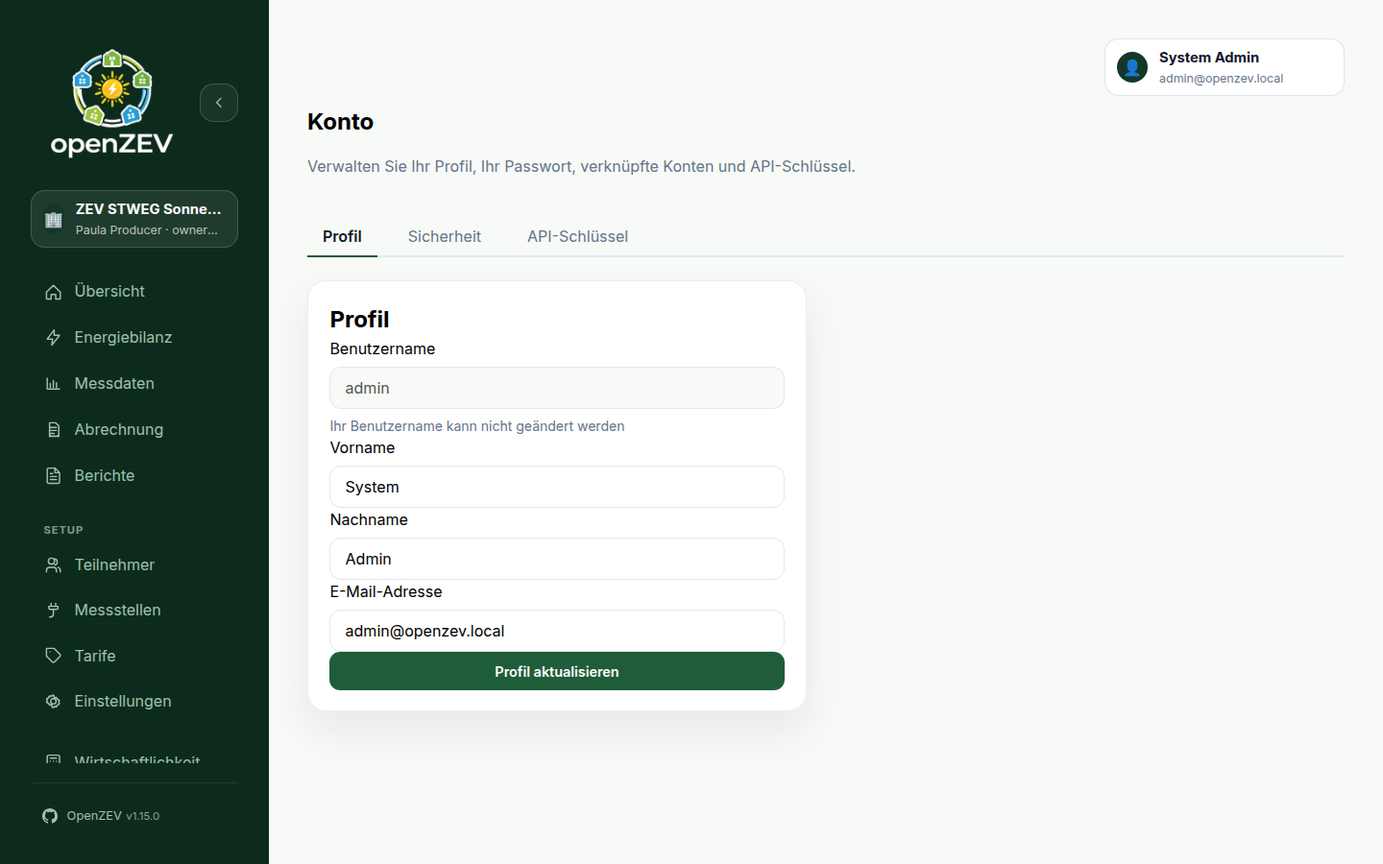
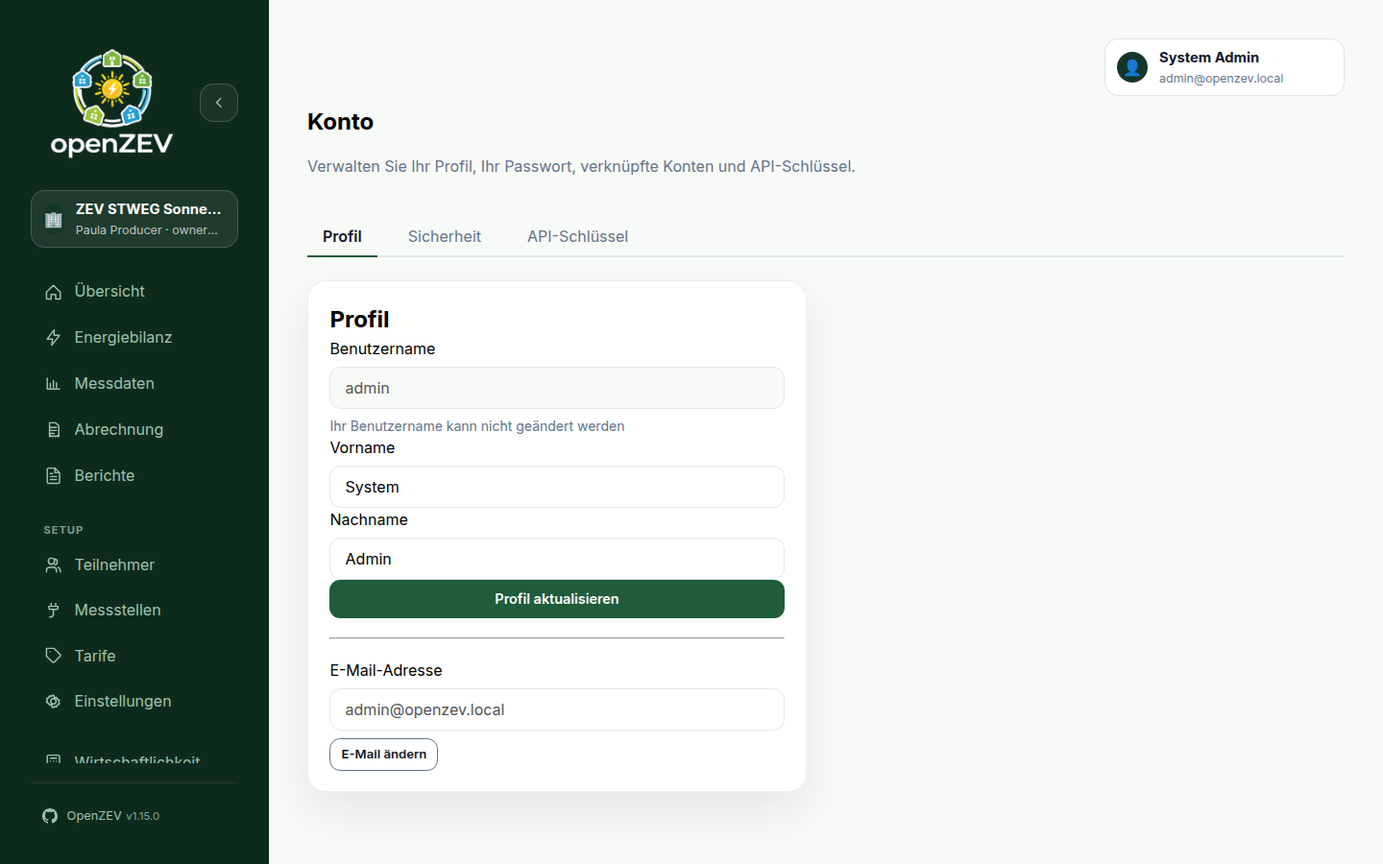
docs(accounts): document session revocation, verified email change and profile lockdown
ADR 0022 (why a version counter rather than a token blacklist), baseline spec
§5.1/5.4-5.6b plus endpoint, throttle and test tables, user guide chapters 11,
12 and 16, and the recaptured account Profile and Security screenshots.

Changed region(s): [[0.2188, 0.6533, 0.5938, 0.84], [0.25, 0.8711, 0.3125, 0.9022]]

diff --git a/docs/specs/2026-03-community-and-access.md b/docs/specs/2026-03-community-and-access.md
@@ -341,7 +341,7 @@ Two consequences for anything added later:
 
 **Two-factor challenge:** if the account has a second factor (a confirmed `TotpDevice` or a registered passkey), the password step returns `200 {"mfa_required": true, "mfa_token": "<signed>", "methods": ["totp", "recovery_code"]}` and sets **no** cookies. `POST /api/v1/auth/token/mfa/` `{mfa_token, code}` then completes the login (TOTP code or one-time recovery code). Magic-link consume and onboarding-link consume return the same challenge shape; the OAuth door honours an IdP `amr` claim instead (`OAuthProvider.require_mfa_claim`, default `False`). `methods` is `["recovery_code"]` for an account whose only factor is a passkey. A passkey (WebAuthn) itself signs in on its own via `POST /auth/passkeys/authenticate/{begin,complete}/` with no password and is never challenged. Accounts without a factor see the pre-2FA behaviour unchanged. Full contract: `2026-09-two-factor-authentication.md` §5.
 
-Helper `accounts.views._make_jwt_for_user(user) -> dict` adds custom claims (also used by `CustomTokenObtainPairSerializer` and `verify_email`/`set_initial_password`; `views_oauth._make_jwt_for_user` and impersonation use the same claims):
+Helper `accounts.jwt_utils.make_jwt_for_user(user, *, impersonated_by=None) -> dict` and `add_custom_claims(token, user)` set the custom claims (used by `CustomTokenObtainPairSerializer`, every session-minting door — verify-email, set-initial-password, magic/onboarding links, OAuth, passkey — and impersonation, so all issue the same claims):
 
 | Claim | Value |
 |---|---|
@@ -349,8 +349,12 @@ Helper `accounts.views._make_jwt_for_user(user) -> dict` adds custom claims (als
 | `email` | `user.email` |
 | `full_name` | `user.get_full_name()` |
 | `must_change_password` | `user.must_change_password` |
+| `sv` | `user.session_version` — the account's session version when the token was issued (§5.6b) |
+| `impersonated_by` | admin id; only on impersonation sessions |
 
-**Token refresh:** `POST /api/v1/auth/token/refresh/` reads `openzev_refresh` cookie; CSRF via `CookieJWTAuthentication` (`SessionAuthentication.enforce_csrf` on unsafe methods) + `CsrfViewMiddleware` kept for admin/Django views.
+**Session version check:** `CookieJWTAuthentication.get_user` refuses an access token whose `sv` (a missing claim reads as `0`) differs from `user.session_version` (`401`, code `session_revoked`) — see §5.6b.
+
+**Token refresh:** `POST /api/v1/auth/token/refresh/` reads `openzev_refresh` cookie; CSRF via `CookieJWTAuthentication` (`SessionAuthentication.enforce_csrf` on unsafe methods) + `CsrfViewMiddleware` kept for admin/Django views. Before rotating, `CookieTokenRefreshView` also requires the refresh token's `sv` to match the account's and the account to be active; otherwise `401` and the auth cookies are cleared.
 
 **Cookie transport:** httpOnly cookies `openzev_access` / `openzev_refresh` + `csrftoken` via `django.middleware.csrf.get_token` (`CsrfViewMiddleware` sets cookie). `CSRF_TRUSTED_ORIGINS` defaults to `CORS_ALLOWED_ORIGINS`.
 
@@ -397,8 +401,8 @@ password. Otherwise returns 400 ("Use the change-password endpoint instead.").
 
 **Flow:**
 1. Validate password via Django password validators.
-2. Set password, clear `must_change_password` flag.
-3. Issue fresh JWT via `accounts.views._make_jwt_for_user(user)` set as httpOnly cookies `openzev_access` / `openzev_refresh` (+ `csrftoken` via `get_token`) so updated claims take effect.
+2. Set password, clear `must_change_password` flag, and revoke the account's other sessions (`revoke_sessions`, §5.6b).
+3. Issue fresh JWT via `accounts.jwt_utils.make_jwt_for_user(user)` set as httpOnly cookies `openzev_access` / `openzev_refresh` (+ `csrftoken` via `get_token`) so updated claims take effect.
 
 ### 5.5 Password change
 
@@ -406,7 +410,7 @@ password. Otherwise returns 400 ("Use the change-password endpoint instead.").
 
 **Payload:** `{ old_password, new_password }`
 
-Validates old password, sets new password, clears `must_change_password`.
+Validates old password, sets new password, clears `must_change_password`, then **signs the account out of every other session** (`revoke_sessions`, §5.6b): whoever knew the old password, or held a stolen session, must not stay signed in. The response carries a fresh token pair under the new session version, so the caller stays signed in (an impersonation session stays an impersonation session). API keys are not revoked — they are separate credentials.
 
 ### 5.6 Profile (me)
 
@@ -421,13 +425,106 @@ Validates old password, sets new password, clears `must_change_password`.
   downloads serve) — plus `zev_count: number`, the number of held
   memberships. `zev_name` is absent when the participant has no membership
   (`zev_count` is then `0`); admins/owners never get either field.
-- PATCH → partial update of own profile fields (name, email, `preferred_zev`).
-  Role change validation: admin cannot change own role; non-admin cannot
-  change role at all. The response is shaped like GET (including
-  `zev_name`/`zev_count` where applicable).
+- GET additionally carries `has_usable_password: boolean` — whether the account
+  can re-authenticate with a password (participants and OAuth-only accounts
+  cannot); the email-change form (§5.6a) is offered only when it is true.
+- PATCH → partial update of **first name, last name and `preferred_zev` only**
+  (`SelfUserSerializer`). A payload that tries to *change* `email`, `username`,
+  `role`, `must_change_password` or `is_active` is rejected `400` naming the
+  field (`"This cannot be changed here."`) and nothing in it is applied; a
+  payload that merely repeats the current value is accepted and ignored, so a
+  client that sends the whole object back keeps working. (Before this, any user
+  could change their own email — the sign-in identifier and magic-link target —
+  without re-authenticating, clear a forced password change, or deactivate
+  themselves.) Admins edit all of these through `PATCH /auth/users/{id}/`. The
+  response is shaped like GET (including `zev_name`/`zev_count` where
+  applicable).
 - `preferred_zev` accepts a ZEV UUID or `null`. Only communities the user
   manages are accepted: owners may only name their own ZEVs, participants/
   guests cannot set a preference at all (`400` otherwise).
+
+### 5.6a Email change
+
+The email is the login identifier and the target of every emailed sign-in link,
+so whoever controls it controls the account. Changing it therefore survives a
+stolen session: the request needs the current password, the new address must
+prove it is reachable before anything changes, and the old address is told.
+
+**Request:** `POST /api/v1/auth/me/email-change/` (IsAuthenticated) `{ new_email, current_password }`,
+throttled per account (`AuthEmailChangeThrottle`, scope `auth_email_change`,
+`5/hour`, `AUTH_EMAIL_CHANGE_THROTTLE_RATE` — it also bounds password guessing by
+a session holder).
+
+| Outcome | Response |
+|---|---|
+| Impersonation session | `403` |
+| Account has no usable password (participants — whose address the community owner maintains on the participant record — and OAuth-only accounts) | `403` `{code: "no_password"}` |
+| Malformed address / same as current / missing or wrong password | `400` (wrong password audited `auth.email_change.failed`, reason `bad_password`) |
+| Address held by another account (case-insensitive) | `202`, **same body as success**, no mail sent — cannot be used to find which addresses have accounts; audited `auth.email_change.failed` (`DENIED`, reason `address_in_use`) |
+| Otherwise | `202`; a confirmation link is emailed to the **new** address; audited `auth.email_change.requested`. A mail failure is `503` and is not recorded as requested. |
+
+**Token:** `accounts/email_change.py` — a `django.core.signing` token (salt
+`accounts.email-change`, 24 h) carrying `{u: user id, n: new address, f: fingerprint}`,
+where the fingerprint is a hash of the account's *current* address and password
+hash. It is stateless yet single-use and mortal: applying it changes the
+address, and any later change of address or password makes the fingerprint
+differ. It also dies if the account is deactivated or someone else took the
+target address meanwhile.
+
+**Confirm:** `POST /api/v1/auth/confirm-email-change/` `{ token }` (AllowAny,
+`AuthVerifyThrottle`, `auth_verify`) — unauthenticated because the link is opened
+from a mailbox, possibly on another device. Every refusal is the same `400 "This
+link is invalid or has expired."`. On success, under a row lock: set the
+address, **revoke all sessions** (§5.6b), email the *previous* address (which
+shows only a masked new address), audit `auth.email_change.confirmed` (actor =
+the account, diff of `email`). No session is minted; the person signs in again
+with the new address.
+
+Frontend: `EmailChangeForm` (Profile tab; "managed by your administrator" hint
+when `has_usable_password` is false) and the public `/confirm-email-change`
+page (`ConfirmEmailChangePage`, spends the single-use link exactly once even
+under React StrictMode). The mails are fixed system messages
+(`accounts/emails.py`), deliberately not `EMAIL_TEMPLATE_DEFAULTS` entries: a
+security notice an admin can reword can be made to stop saying what happened.
+
+### 5.6b Session revocation ("sign out everywhere")
+
+Tokens are stateless JWTs, so nothing server-side lists "sessions". Instead
+`User.session_version` (`PositiveIntegerField`, default `0`, migration `0019`)
+is stamped into every token as `sv`; bumping it makes all earlier tokens fail
+(§5.1). Decision and trade-offs: ADR 0022. API keys are separate credentials and
+are not affected.
+
+`accounts/session_revocation.py`: `revoke_sessions(user)` — an atomic
+`UPDATE … SET session_version = session_version + 1`, then a reload so tokens
+minted straight afterwards carry the new value; `keep_current_session(request,
+response, user)` — hand the caller a fresh pair so revoking *other* sessions
+does not sign them out. `User.save()` deliberately never writes
+`session_version` (a plain save from an instance loaded before a revocation
+would otherwise write the old value back and revive the sessions just signed
+out).
+
+Sessions are revoked, all with `auth.*` audit events where the action is an
+explicit one:
+
+| Trigger | Effect |
+|---|---|
+| Password change / initial password set | other sessions end; caller keeps theirs |
+| Email change confirmed | all sessions end |
+| Admin two-factor reset (`DELETE /users/{id}/mfa/`) | target's sessions end |
+| Admin deactivates an account (`PATCH /users/{id}/` `is_active: false`) | sessions end — so reactivating later does not bring back unexpired tokens |
+| `POST /api/v1/auth/me/sessions/revoke/` (IsAuthenticated; `403` while impersonating) | other sessions end; caller keeps theirs; audited `auth.sessions.revoked` (`scope: others`) |
+| `POST /api/v1/auth/users/{id}/revoke-sessions/` (IsAdmin; `400` for the admin's own account) | all of the target's sessions end; audited `auth.sessions.revoked` (`scope: all`, admin as actor) |
+
+Not revoked by design: logout (it ends *this* browser only), API keys, an
+outstanding MFA challenge token. There is no per-device list: a counter can say
+"everything before now is dead", not "this one device" (ADR 0022).
+
+All four new endpoints are absent from `ACCOUNTS_API_KEY_ALLOWLIST`
+(default-deny): a key must not be able to re-point or sign out its own owner.
+
+Frontend: `SessionsCard` on the Security tab ("Sign out other devices"), and
+"Sign out everywhere" in the admin accounts row menu (not on the admin's own row).
 
 ### 5.7 Impersonation
 
@@ -496,6 +593,8 @@ cookie sessions stay unthrottled:
 | `POST /api/v1/auth/token/refresh/` | `AuthRefreshThrottle` | `auth_refresh` | `60/hour` (`AUTH_REFRESH_THROTTLE_RATE`) |
 | `POST /api/v1/auth/register/` | `AuthRegisterThrottle` | `auth_register` | `10/hour` (`AUTH_REGISTER_THROTTLE_RATE`) |
 | `POST /api/v1/auth/verify-email/` | `AuthVerifyThrottle` | `auth_verify` | `30/hour` (`AUTH_VERIFY_THROTTLE_RATE`) |
+| `POST /api/v1/auth/confirm-email-change/` | `AuthVerifyThrottle` | `auth_verify` | shares the verify budget |
+| `POST /api/v1/auth/me/email-change/` | `AuthEmailChangeThrottle` | `auth_email_change` | `5/hour` (`AUTH_EMAIL_CHANGE_THROTTLE_RATE`), per authenticated account |
 | `POST /api/v1/auth/oauth/login/<provider_slug>/` | `AuthOAuthInitiateThrottle` | `auth_oauth_initiate` | `60/hour` (`AUTH_OAUTH_INITIATE_THROTTLE_RATE`) |
 | `POST /api/v1/auth/oauth/token-exchange/` | `AuthOAuthExchangeThrottle` | `auth_oauth_exchange` | `40/hour` (`AUTH_OAUTH_EXCHANGE_THROTTLE_RATE`) |
 
@@ -944,6 +1043,10 @@ documented in `2026-03-invoice-lifecycle-and-communication.md` §5.6a.
 | GET / PATCH | `/me/` | IsAuthenticated | View/update own profile |
 | POST | `/me/change-password/` | IsAuthenticated | Change password (requires old password) |
 | POST | `/me/set-initial-password/` | IsAuthenticated | Set password for first time (verification flow) |
+| POST | `/me/email-change/` | IsAuthenticated | Ask for an email change; needs the current password; link goes to the new address (§5.6a) |
+| POST | `/confirm-email-change/` | AllowAny (token) | Apply an emailed email-change link (§5.6a) |
+| POST | `/me/sessions/revoke/` | IsAuthenticated | Sign out every other session (§5.6b) |
+| POST | `/users/{id}/revoke-sessions/` | IsAdmin | Sign an account out everywhere (§5.6b) |
 | GET / POST | `/users/` | IsAdmin | List users / Create user |
 | GET / PATCH / DELETE | `/users/{id}/` | IsAdmin | User detail (delete blocked if linked or last admin) |
 | GET | `/me/mfa/` | IsAuthenticated | Own second-factor status: `{totp, passkeys, recovery_codes_remaining, required, grace_until}` |
@@ -1213,6 +1316,7 @@ lists the test classes per module (test counts are the `test_*` methods).
 
 | Module | Classes | Tests | Coverage |
 |---|---|---|---|
+| `test_session_hardening.py` | 5 | 44 | Self-service profile lockdown (protected fields rejected, repeats accepted, names/preferred community still editable); session revocation (revoked/new/legacy tokens, refresh refusal, deactivation, stale-instance save cannot revive, API keys and impersonation); password change and revoke endpoints; verified email change (request/confirm, single-use, dies on password/address/deactivation/expiry, no enumeration, throttle, mail failure, API keys) |
 | `test_admin_users_list.py` | 1 | 7 | Admin user list: memberships per relationship (participant, owner-who-is-also-participant merged into one, owner of several communities sorted by name), confirmed-only `mfa_methods`, fixed query count, `/auth/me/` unaffected |
 | `test_api_keys.py` | 10 | 81 | Generation, hashing, auth, read-only keys, scope deny-list, audit, throttling, CRUD, admin management |
 | `test_oauth.py` | 12 | 55 | Provider listing, initiate, callback guards/redirects, link flow, social accounts, audit, `require_mfa_claim` (`OAuthMfaClaimTests`) |

diff --git a/docs/adr/0022-session-revocation-by-version-counter.md b/docs/adr/0022-session-revocation-by-version-counter.md
@@ -1,0 +1,77 @@
+# ADR 0022: Sessions are revoked with a per-account version counter, not a token blacklist
+
+- Status: Accepted
+- Date: 2026-09-20
+
+## Context
+
+Browser sessions are a pair of stateless JWTs in httpOnly cookies: a 60-minute access token and a
+7-day refresh token (rotating). "Stateless" means nothing on the server lists them, so nothing
+could end them. A password change, an administrator resetting someone's second factor, or
+deactivating an account left every already-issued token working for up to a week — and
+reactivating a deactivated account would have brought the unexpired ones back to life.
+
+That matters most in exactly the situations where an account may be compromised: the person
+changes their password *because* someone else is in, and the intruder's session survives it.
+
+Two ways to make tokens revocable:
+
+1. **A token blacklist** (`rest_framework_simplejwt.token_blacklist`): a table of every issued
+   refresh token and every revoked one, checked on refresh.
+2. **A per-account counter**, stamped into each token and compared on use.
+
+## Decision
+
+Add `User.session_version` (integer, default `0`). Every token carries it as the `sv` claim,
+stamped in one place (`accounts.jwt_utils.add_custom_claims`, which every issuing path shares).
+`CookieJWTAuthentication.get_user` refuses an access token whose `sv` differs from the account's,
+and `CookieTokenRefreshView` refuses a refresh token likewise (and one for an inactive account).
+Revoking is `revoke_sessions(user)`: an atomic `UPDATE … +1`. Tokens issued before the claim
+existed carry none, which reads as `0` — the value every account starts at — so the change ships
+without signing anyone out, and they stop working at the account's first revocation.
+
+`User.save()` never writes the column. A plain full-row save from an instance loaded before a
+revocation would otherwise write the old value back and silently un-revoke every session that was
+just signed out, so the only writer is the atomic update.
+
+Revoked on: password change or initial set (the caller keeps their session — they are handed a
+fresh pair), a confirmed email change, an administrator's two-factor reset, deactivation, and two
+explicit actions ("Sign out other devices" for oneself, "Sign out everywhere" for an
+administrator acting on someone else).
+
+## Consequences
+
+Positive:
+- One integer per account and no new table: no per-token writes on login or refresh, nothing to
+  prune, and the check reuses the user row `get_user` already loads — no extra query per request.
+- Revocation is instantaneous and total, which is the property the triggers above want: "whoever
+  was in before now is out".
+- Reactivating an account cannot resurrect old sessions.
+
+Trade-offs:
+- **All-or-nothing.** A counter can say "everything issued before now is dead", never "this one
+  device". There is no per-device session list and no "sign out that laptop". The Security tab is
+  honest about this ("Sign out other devices").
+- Logout still only clears *this* browser's cookies: a copied refresh cookie survives a plain
+  logout until the next revocation. Bumping on every logout would sign out the user's other
+  devices, which is the wrong behaviour for a routine action.
+- The custom claims (`role`, `email`, `must_change_password`) still go stale within a token's
+  lifetime; this decision is about ending sessions, not refreshing them.
+- API keys are separate credentials with their own revocation and are deliberately unaffected.
+
+## Alternatives considered
+
+1. **Token blacklist (`token_blacklist` app).**
+   Rejected for now. It gives what the counter cannot — per-token revocation and therefore a
+   session list — but at the cost of an `OutstandingToken` row written on every login and every
+   refresh rotation, a table that must be pruned, and a database lookup on each refresh. For the
+   problem at hand (end everything after a credential change) that is machinery for a capability
+   nobody asked for. If a device list is wanted later, it can be added on top: a `Session` table
+   keyed by refresh-token `jti`, with the counter kept as the bulk "everything" switch.
+2. **Compare the token's `iat` with a `sessions_valid_after` timestamp.**
+   Rejected. It needs no claim, but `iat` has one-second resolution: a token issued in the same
+   second as the revocation — the caller's own fresh pair after a password change — would be
+   ambiguous. A counter is exact.
+3. **Shorten the refresh lifetime instead.**
+   Rejected: it narrows the window without closing it, and costs everyone a more frequent
+   sign-in to mitigate an event most sessions never see.

diff --git a/docs/user-guide/11-roles-and-permissions.md b/docs/user-guide/11-roles-and-permissions.md
@@ -225,6 +225,10 @@ Open **More** on an account row for:
   admin).
 - **Reset two-factor** — removes the account's passkeys, authenticator app and
   recovery codes, so someone locked out can sign in with their password again.
+- **Sign out everywhere** — ends every session the account holds, on every
+  browser and device, so it has to sign in again. Use it when you suspect
+  someone else has access. It is recorded in the audit log and is not offered
+  on your own row (use **Sign out other devices** on your account page).
 - **Delete** — only available for accounts that do not belong to a community.
   Unlink the account from its participant first; an owner's account cannot be
   deleted while it owns a community.
@@ -336,6 +340,40 @@ or recover your secrets, and cannot set up a factor on your behalf.
 The server needs an encryption key (`MFA_ENCRYPTION_KEYS`) before authenticator apps can be enrolled
 or a requirement can be set, and the passkey domain settings (`WEBAUTHN_RP_ID`, `WEBAUTHN_ORIGIN`)
 must match the address users open OpenZEV on. See `backend/.env.example` and the Helm chart README.
+
+## Email Address and Sessions
+
+### Changing your email address
+
+Your email address is what you sign in with and where sign-in links are sent, so changing
+it takes a few extra steps. Under **My Account → Profile → Email address**:
+
+1. Click **Change email**, enter the new address and your **current password**
+2. Open the confirmation link OpenZEV sends to the **new** address (valid for 24 hours)
+3. Sign in again with the new address — the change signs you out everywhere
+
+The old address is emailed afterwards, so a change you did not make does not go unnoticed. The
+link works once, and stops working if your password or address changes before you use it.
+
+Accounts that have no password — participants, who sign in with emailed links, and accounts that
+only use an external identity provider — cannot do this themselves. For participants the address is
+maintained by the community owner on the participant record; an administrator can change any
+account's address under **Platform → Accounts → Edit**.
+
+### Signing out other devices
+
+Under **My Account → Security → Sessions**, **Sign out other devices** ends every session except the
+one you are using. Do it if you lost a device or suspect someone else has access. There is no list
+of individual devices — the action always covers all of them.
+
+Sessions on other devices also end automatically when you:
+
+- change your password (you stay signed in on the device you used),
+- confirm an email change, or
+- have your two-factor authentication reset by an administrator, or your account deactivated.
+
+Signing out on one device (**Log out**) only ends that browser's session. API keys are separate
+credentials and stay valid — see [API keys](16-api-keys.md).
 
 ## Multi-ZEV Setups
 

diff --git a/docs/user-guide/16-api-keys.md b/docs/user-guide/16-api-keys.md
@@ -101,7 +101,8 @@ Some endpoints refuse key authentication regardless of your role, returning
 | --- | --- |
 | `auth/token/refresh/` | A key must not be upgradeable into a browser session |
 | `auth/me/change-password/`, `auth/me/set-initial-password/` | Otherwise a leaked key locks the real owner out |
-| `auth/me/` (PATCH) | Moving the account email moves password recovery with it |
+| `auth/me/` (PATCH), `auth/me/email-change/` | Moving the account email moves password recovery with it |
+| `auth/me/sessions/revoke/`, `auth/users/<id>/revoke-sessions/` | A key must not be able to sign its owner out |
 | `auth/users/` writes, `auth/users/<id>/impersonate/` | An admin's key must not be able to become somebody else |
 | `auth/me/api-keys/` | A key that can issue keys makes revoking a leaked one pointless |
 
@@ -172,10 +173,12 @@ and the administrator who revoked it.
 
 ### Changing your password does not revoke your keys
 
-This is deliberate: a routine password rotation should not silently break every
-automation you have. It also means that if you are changing your password
-**because you think your account was compromised**, you should revoke your keys
-as well — changing the password alone does not lock an attacker out of them.
+Changing your password signs out your other browser sessions, but keys are
+separate credentials. That is deliberate: a routine password rotation should not
+silently break every automation you have. It also means that if you are changing
+your password **because you think your account was compromised**, you should
+revoke your keys as well — changing the password alone does not lock an attacker
+out of them.
 
 ## Audit trail
 

diff --git a/docs/user-guide/12-troubleshooting.md b/docs/user-guide/12-troubleshooting.md
@@ -50,6 +50,8 @@ docker compose logs
 | "Invalid credentials" | Wrong username/password | Check [demo accounts](01-getting-started.md#demo-accounts) |
 | "Account not activated" | User never received invitation | Reset password via login page |
 | "Permission denied" | User role is too restrictive | Ask admin to update your role |
+| Signed out on every device without logging out | Your password or email was changed, your two-factor was reset, or someone chose **Sign out everywhere** for your account | Sign in again; if you did not expect it, change your password and check with your administrator |
+| Email-change link says it "does not work" | The link was already used, is older than 24 hours, or your password or address changed after you asked | Request the change again under **My Account → Profile** |
 | "429 Too many requests" | Login/registration attempts exceeded the per-IP rate limit | Wait a while (check the `Retry-After` header) before trying again |
 
 ### Forgot Password

diff --git a/docs/adr/README.md b/docs/adr/README.md
@@ -25,6 +25,7 @@ This directory captures key architectural decisions for OpenZEV.
 - [0019: Frozen invoice source provenance and serialized price mutations](0019-frozen-dynamic-price-evidence.md)
 - [0020: A user-verified passkey replaces the password, rather than supplementing it](0020-passkeys-replace-the-password.md)
 - [0021: MFA secrets are encrypted under a dedicated, rotatable key, not `SECRET_KEY`](0021-mfa-secret-encryption-key.md)
+- [0022: Sessions are revoked with a per-account version counter, not a token blacklist](0022-session-revocation-by-version-counter.md)
 
 ## Conventions
 

diff --git a/docs/specs/2026-09-two-factor-authentication.md b/docs/specs/2026-09-two-factor-authentication.md
@@ -528,6 +528,8 @@ key as unconfigured — mirroring the pattern PR #732 used for the dynamic-sourc
 Each account row gains a **Reset two-factor** action (admin only), behind a confirmation dialog
 naming the user and what will be removed. The row also shows which factors the account has (from
 `AdminUserSerializer.mfa_methods`) — see `2026-03-community-and-access.md` §6.4.
+An admin reset also signs the account out of every session it holds (`revoke_sessions`, ADR 0022): whoever
+was inside may have been let in by the factors that were just removed.
 
 ### TypeScript types
 
